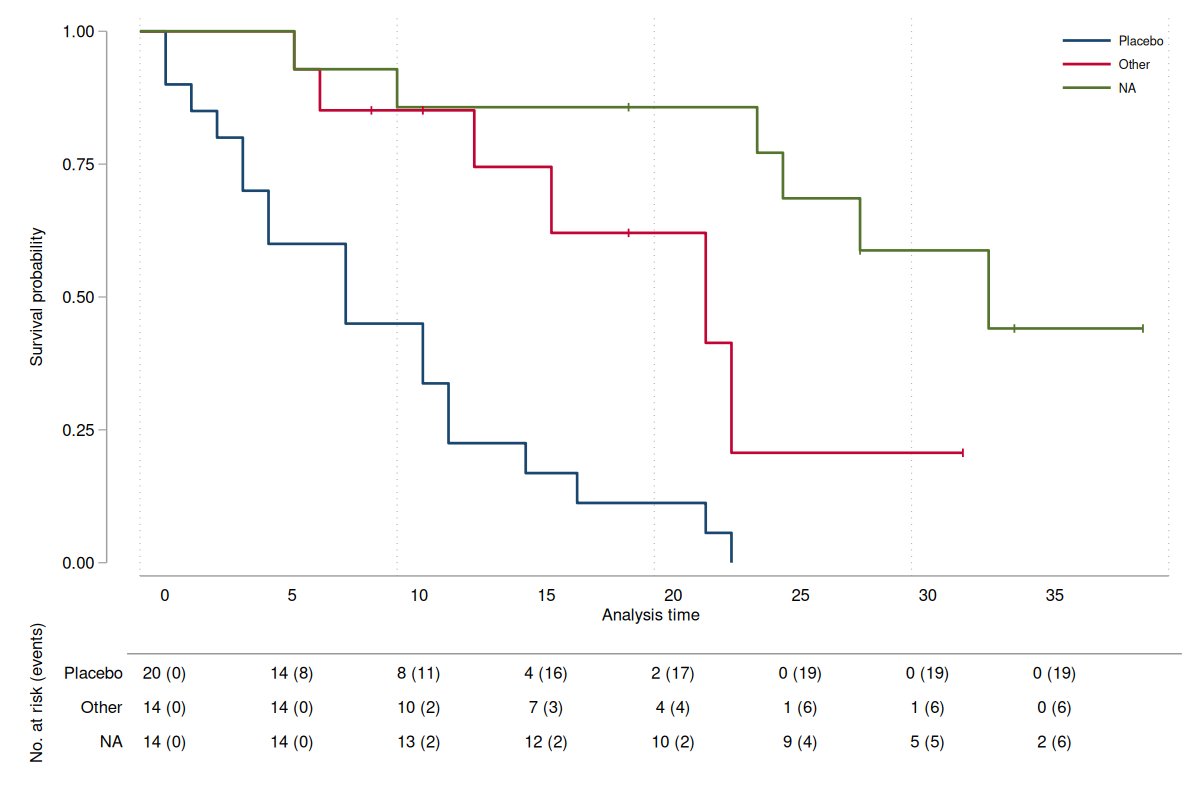
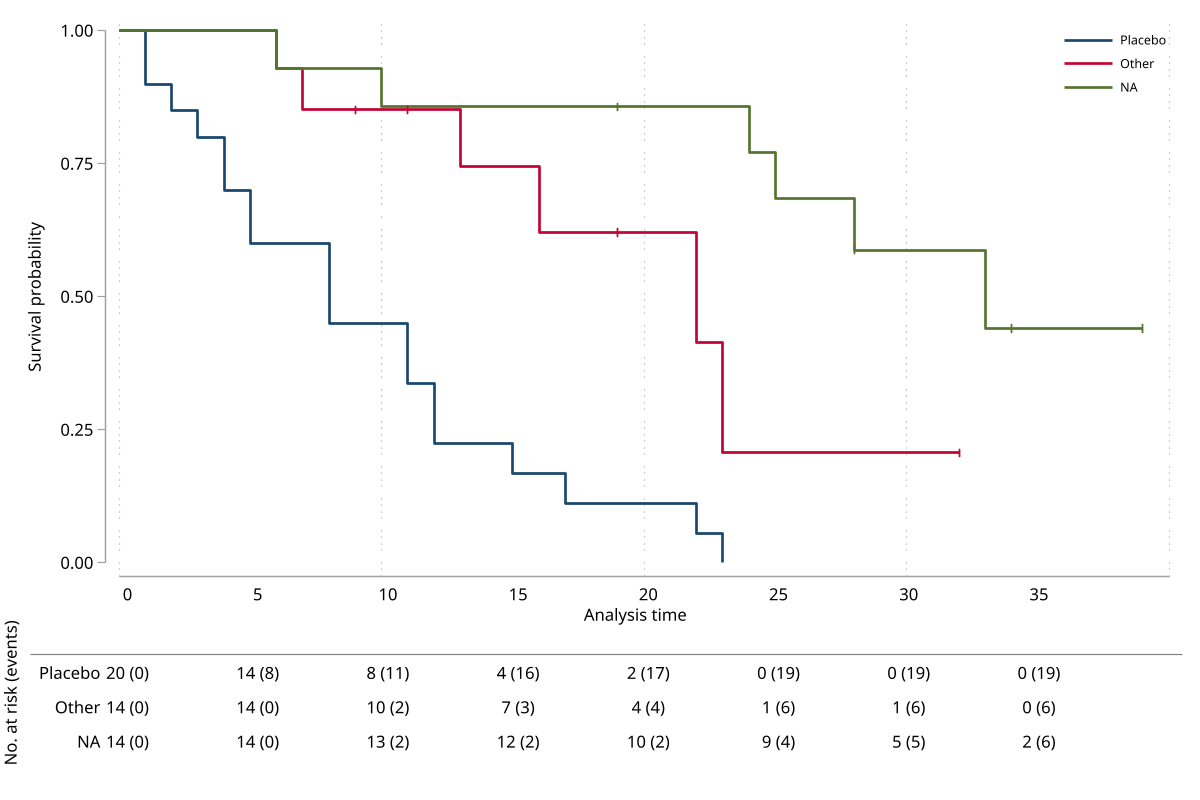
fix(kmplot): align risk-table columns with plot axis
Align _kmplot_risktable time labels and counts to the main x-axis while
enlarging row labels and moving the risk-table title outward. Add v1.2.7
QA coverage and regenerate the demo PNG artifacts. Release kmplot 1.2.7
with kmplot.ado, kmplot.pkg, kmplot.sthlp, and README files synced.

diff --git a/README.md b/README.md
@@ -71,7 +71,7 @@ net install <package>, from("https://raw.githubusercontent.com/tpcopeland/Stata-
 | [diagtab](https://github.com/tpcopeland/Stata-Tools/tree/main/diagtab) | ![version](https://img.shields.io/badge/version-2.0.0-blue) | ![updated](https://img.shields.io/badge/updated-2026--08--19-brightgreen) | Diagnostic accuracy, confidence intervals, ROC AUC, and cutoff analysis with publication-ready exports (Stata 17+) |
 | [eplot](https://github.com/tpcopeland/Stata-Tools/tree/main/eplot) | ![version](https://img.shields.io/badge/version-1.2.8-blue) | ![updated](https://img.shields.io/badge/updated-2026--08--11-brightgreen) | Unified effect plotting from variables, stored estimates, matrices, or graph-ready frames |
 | [logdoc](https://github.com/tpcopeland/Stata-Tools/tree/main/logdoc) | ![version](https://img.shields.io/badge/version-1.1.5-blue) | ![updated](https://img.shields.io/badge/updated-2026--08--11-brightgreen) | Convert Stata SMCL/log files to faithful HTML, Markdown, Word, LaTeX, Quarto, or PDF documents (requires Python 3.6+) |
-| [kmplot](https://github.com/tpcopeland/Stata-Tools/tree/main/kmplot) | ![version](https://img.shields.io/badge/version-1.2.6-blue) | ![updated](https://img.shields.io/badge/updated-2026--08--11-brightgreen) | Publication-ready Kaplan-Meier and cumulative failure curves with CI, risk tables, landmarks, saved data, median lines, and censor marks |
+| [kmplot](https://github.com/tpcopeland/Stata-Tools/tree/main/kmplot) | ![version](https://img.shields.io/badge/version-1.2.7-blue) | ![updated](https://img.shields.io/badge/updated-2026--08--21-brightgreen) | Publication-ready Kaplan-Meier and cumulative failure curves with CI, risk tables, landmarks, saved data, median lines, and censor marks |
 | [raincloud](https://github.com/tpcopeland/Stata-Tools/tree/main/raincloud) | ![version](https://img.shields.io/badge/version-1.0.3-blue) | ![updated](https://img.shields.io/badge/updated-2026--08--11-brightgreen) | Raincloud plots combining density, raw points, and box summaries |
 | [simtab](https://github.com/tpcopeland/Stata-Tools/tree/main/simtab) | ![version](https://img.shields.io/badge/version-2.0.0-blue) | ![updated](https://img.shields.io/badge/updated-2026--08--19-brightgreen) | Monte Carlo simulation performance metrics, MCSEs, ingest adapters, and publication-ready exports (Stata 17+) |
 | [spaghetti](https://github.com/tpcopeland/Stata-Tools/tree/main/spaghetti) | ![version](https://img.shields.io/badge/version-1.0.1-blue) | ![updated](https://img.shields.io/badge/updated-2026--08--05-brightgreen) | Long-format longitudinal trajectory plots with optional group mean and CI overlays |

diff --git a/kmplot/qa/README.md b/kmplot/qa/README.md
@@ -36,6 +36,7 @@ The runner and suites write logs into `qa/`. Concurrent runs of the same lane re
 | `test_kmplot_v124.do` | Multiple-record and weighted risk sets, option-dependency errors, and Stata-native help rendering. |
 | `test_kmplot_v125.do` | Graph-name isolation and cleanup, custom-color recycling, combined-plot median annotations, and dotted export paths. |
 | `test_kmplot_v126.do` | Combined-plot x-axis ordering, risk-table separator, and readable default label sizing. |
+| `test_kmplot_v127.do` | Risk-table tick labels and count columns aligned with main-plot x-axis positions. |
 
 ### Validation
 
@@ -55,7 +56,7 @@ The runner and suites write logs into `qa/`. Concurrent runs of the same lane re
 
 | Command | Functional | Validation | Also exercised in |
 |---|---|---|---|
-| `kmplot` | `test_kmplot.do`, `test_kmplot_v124.do`, `test_kmplot_v125.do`, `test_kmplot_v126.do` | `validation_kmplot_recovery.do`, `validation_kmplot.do` | Local install and helper auto-load through `_kmplot_qa_common.do` |
+| `kmplot` | `test_kmplot.do`, `test_kmplot_v124.do`, `test_kmplot_v125.do`, `test_kmplot_v126.do`, `test_kmplot_v127.do` | `validation_kmplot_recovery.do`, `validation_kmplot.do` | Local install and helper auto-load through `_kmplot_qa_common.do` |
 
 ## Lane membership
 
@@ -64,5 +65,5 @@ The runner and suites write logs into `qa/`. Concurrent runs of the same lane re
 | Lane | Suites |
 |---|---|
 | `quick` | `test_kmplot.do` |
-| `core` | `quick` plus three version-regression suites, recovery, and comprehensive validation |
+| `core` | `quick` plus four version-regression suites, recovery, and comprehensive validation |
 | `full` | Same correctness gate as `core`; no external backend lane applies |

diff --git a/kmplot/README.md b/kmplot/README.md
@@ -1,6 +1,6 @@
 # kmplot — Publication-ready Kaplan-Meier survival and cumulative failure plots
 
-**Version 1.2.6** | 2026-08-11
+**Version 1.2.7** | 2026-08-21
 
 `kmplot` creates publication-ready Kaplan-Meier survival or cumulative failure plots for Stata users who need confidence intervals, risk tables, fixed-time estimates, and reusable graph data in one workflow. It uses the current `stset` definition, returns optional risk-table and landmark summaries plus plot metadata in `r()`, and can save curve data with `saving()`.
 
@@ -249,6 +249,7 @@ QA suites and how to run them are documented in [`qa/README.md`](qa/README.md).
 
 ## Version History
 
+- **1.2.7** (2026-08-21): Aligned risk-table time labels and counts with the main plot's x-axis positions, enlarged row labels, and moved the risk-table title outward.
 - **1.2.6** (2026-08-11): Placed the x-axis title directly below its values, added a solid separator above the risk table, and enlarged default risk-table text.
 - **1.2.5** (2026-08-11): Isolated internal graph names and failure cleanup, fixed custom-color recycling and risk-table median annotations, supported dotted export paths, and made landmark lookup exact for continuous event times and large samples.
 - **1.2.4** (2026-08-11): Corrected subject-level, weighted, delayed-entry, and group-transition risk-table counts; excluded contiguous same-group records from censoring; and rejected ineffective dependent-option combinations.
